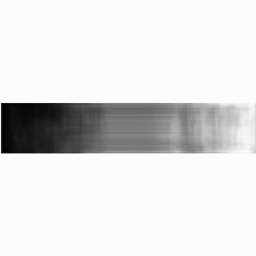
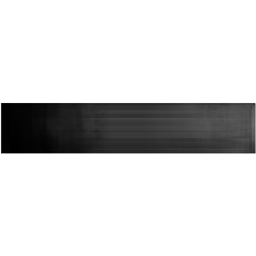
fixed ema model not being used

Changed region(s): [[0.125, 0.375, 1.0, 0.625]]

diff --git a/model/diffusion.py b/model/diffusion.py
@@ -535,7 +535,11 @@ class Trainer:
         previous_iteration = sample["previous_iteration"].to(self.device)
         # iteration_index = sample['iteration_index'].to(self.device)
         if type(self.model) == FDNUNet:
-            prediction = self.model(previous_iteration, conditions)
+            prediction = (
+                self.model(previous_iteration, conditions)
+                if not use_ema_model
+                else self.ema.ema_model(previous_iteration, conditions)
+            )
         else:
             # raise NotImplementedError('Only FDNUNet is supported')
             prediction = (

diff --git a/applications/cantilever/cantilever.py b/applications/cantilever/cantilever.py
@@ -43,7 +43,7 @@ options = {
 regions = {
     'Omega' : 'all',
     'Constraint' : ('vertices in (x < 0.01)', 'facet'),
-    'Force' : ('vertices in (x > 0.99)', 'facet'),
+    'Force' : ('vertex 3', 'vertex'),
 }
 
 materials = {
